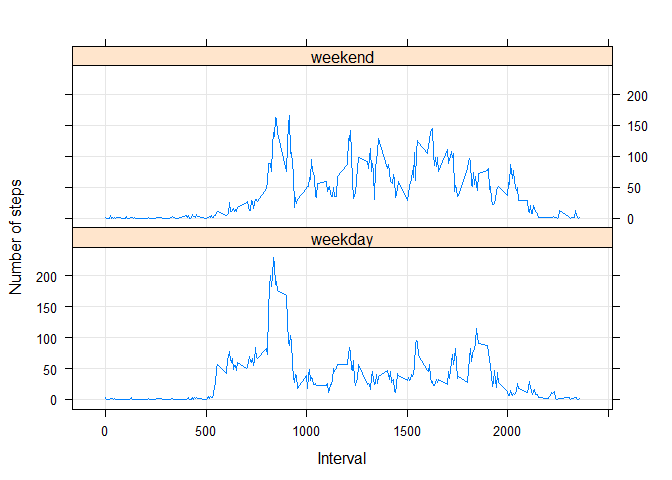
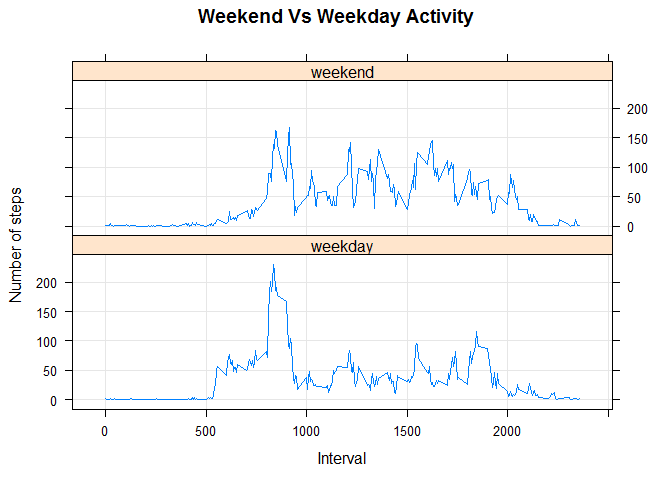
Commits

diff --git a/PA1_template.html b/PA1_template.html
@@ -210,8 +210,8 @@ head(newStepsActivity)</code></pre>
 ## 6 2.0943396 2012-10-01       25  weekday</code></pre>
 <pre class="r"><code>stepsByDay &lt;- aggregate(steps ~ interval + dateType, data = newStepsActivity, mean)
 
-xyplot(steps ~ interval | dateType, stepsByDay, type = c(&quot;l&quot;,&quot;g&quot;),layout = c(1, 2), xlab = &quot;Interval&quot;, ylab = &quot;Number of steps&quot;)</code></pre>
[1 lines of base64/hex data omitted]
+xyplot(steps ~ interval | dateType, stepsByDay, type = c(&quot;l&quot;,&quot;g&quot;),layout = c(1, 2), xlab = &quot;Interval&quot;, ylab = &quot;Number of steps&quot;, main = &quot;Weekend Vs Weekday Activity&quot;)</code></pre>
[1 lines of base64/hex data omitted]
 <p>From the plots above, We can conclude that the weekdays had the greatest peak between the 500 and 1000 intervals from all the steps intervals. But, genrally the weekends activities had more peaks over a hundred than weekday. In conclusion there is a more evenly or better steps activity distribution of effort along the time over the weekend than over the weekdays.</p>
 </div>
 

diff --git a/PA1_template.md b/PA1_template.md
@@ -269,7 +269,7 @@ head(newStepsActivity)
 ```r
 stepsByDay <- aggregate(steps ~ interval + dateType, data = newStepsActivity, mean)
 
-xyplot(steps ~ interval | dateType, stepsByDay, type = c("l","g"),layout = c(1, 2), xlab = "Interval", ylab = "Number of steps")
+xyplot(steps ~ interval | dateType, stepsByDay, type = c("l","g"),layout = c(1, 2), xlab = "Interval", ylab = "Number of steps", main = "Weekend Vs Weekday Activity")
 ```
 
 ![](./PA1_template_files/figure-html/unnamed-chunk-13-1.png) 
